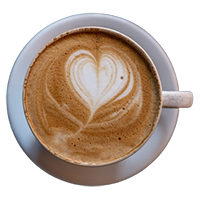
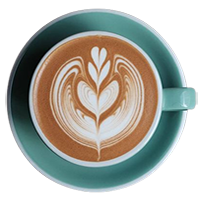
Add files via upload

diff --git a/index.html b/index.html
@@ -22,10 +22,10 @@
         </div>
       
         <ul class="nav-list">
-          <li><a href="index.html">Home</a></li>
-          <li><a href="#coffee">Café</a></li>
-          <li><a href="#acompanhamento">Acompanhamento</a></li>
-          <li><a href="#">Sobre nós</a></li>
+          <li><a href="index.html">Home <i class="fa-solid fa-house"></i></a></li>
+          <li><a href="#coffee">Café <i class="fa-solid fa-mug-hot"></i></a></li>
+          <li><a href="#acompanhamento">Acompanhamento <i class="fa-solid fa-cookie-bite"></i></a></li>
+          <li><a href="#">Sobre nós <i class="fa-solid fa-users"></i></a></li>
         </ul>
       </div>
     </nav>
@@ -60,42 +60,73 @@
     <div class="containerAll">
       <h1 class="titleCafe" id="coffee">Cafés</h1>
       <div class="containerCards">
-        <div class="card card1">
+        <div class="card">
           <picture>
-            <img src="./imagens/coffee.png" alt="Imagem de um cappuccino">
+            <img src="./imagens/coffee.png" alt="Imagem de uma xícara de café">
           </picture>
-          <h1>Cappuccino </br> <span>Com leite</span></h1>
+          <h1>Cappuccino</br><span>Com leite</span></h1>
           <div class="containerAdd">
             <p><span>$</span>5.50</p>
             <a href="#" class="btnAdd">Comprar</a>
           </div>
         </div>
 
-        <div class="card card2">
+        <div class="card">
           <picture>
-            <img src="./imagens/coffee1.png" alt="Imagem de um café expresso">
+            <img src="./imagens/coffee2.png" alt="Imagem de uma xícara de café">
           </picture>
-          <h1>Café expresso </br> <span>Com chocolate</span></h1>
+          <h1>Café expresso</br><span>Com chocolate</span></h1>
           <div class="containerAdd">
-            <p><span>$</span>6.50</p>
+            <p><span>$</span>6.00</p>
             <a href="#" class="btnAdd">Comprar</a>
           </div>
         </div>
 
-        <div class="card card3">
+        <div class="card">
           <picture>
-            <img src="./imagens/coffee2.png" alt="Imagem de um café gelado">
+            <img src="./imagens/coffee3.png" alt="Imagem de uma xícara de café">
           </picture>
-          <h1>Café gelado </br> <span>Com creme</span></h1>
+          <h1>Cappuccino</br><span>Com creme</span></h1>
           <div class="containerAdd">
-            <p><span>$</span>7.00</p>
+            <p><span>$</span>5.30</p>
+            <a href="#" class="btnAdd">Comprar</a>
+          </div>
+        </div>
+
+        <div class="card">
+          <picture>
+            <img src="./imagens/coffee4.png" alt="Imagem de um café gelado">
+          </picture>
+          <h1>Café gelado</br><span>Com leite</span></h1>
+          <div class="containerAdd">
+            <p><span>$</span>6.20</p>
+            <a href="#" class="btnAdd">Comprar</a>
+          </div>
+        </div>
+        <div class="card">
+          <picture>
+            <img src="./imagens/coffee3.png" alt="Imagem de um café gelado">
+          </picture>
+          <h1>Café</br><span>Com canela</span></h1>
+          <div class="containerAdd">
+            <p><span>$</span>6.20</p>
+            <a href="#" class="btnAdd">Comprar</a>
+          </div>
+        </div>
+        <div class="card">
+          <picture>
+            <img src="./imagens/coffee.png" alt="Imagem de um café gelado">
+          </picture>
+          <h1>Café</br><span>Com creme</span></h1>
+          <div class="containerAdd">
+            <p><span>$</span>6.20</p>
             <a href="#" class="btnAdd">Comprar</a>
           </div>
         </div>
       </div>
       <h1 class="titleAcompanha" id="acompanhamento">Acompanhamentos</h1>
       <div class="containerCards">
-        <div class="card card4">
+        <div class="card">
           <picture>
             <img src="./imagens/boloOreo.jpg" alt="Imagem de um bolo de oreo">
           </picture>
@@ -106,7 +137,29 @@
           </div>
         </div>
 
-        <div class="card card5">
+        <div class="card">
+          <picture>
+            <img src="./imagens/cupcake.jpg" alt="Imagem de alguns cupcakes">
+          </picture>
+          <h1>Cupcake</h1>
+          <div class="containerAdd">
+            <p><span>$</span>3.00</p>
+            <a href="#" class="btnAdd">Comprar</a>
+          </div>
+        </div>
+
+        <div class="card">
+          <picture>
+            <img src="./imagens/doces.jpg" alt="Imagem de doces de coco">
+          </picture>
+          <h1>Docinho de coco</h1>
+          <div class="containerAdd">
+            <p><span>$</span>1.00</p>
+            <a href="#" class="btnAdd">Comprar</a>
+          </div>
+        </div>
+
+        <div class="card">
           <picture>
             <img src="./imagens/cookies.jpg" alt="Imagem de cookies de chocolate">
           </picture>
@@ -117,13 +170,24 @@
           </div>
         </div>
 
-        <div class="card card6">
+        <div class="card">
           <picture>
             <img src="./imagens/croissant.png" alt="Imagem de um croissant">
           </picture>
           <h1>Croissant</h1>
           <div class="containerAdd">
             <p><span>$</span>4.50</p>
+            <a href="#" class="btnAdd">Comprar</a>
+          </div>
+        </div>
+
+        <div class="card">
+          <picture>
+            <img src="./imagens/brownie.jpg" alt="Imagem de brownies">
+          </picture>
+          <h1>Brownie</h1>
+          <div class="containerAdd">
+            <p><span>$</span>2.30</p>
             <a href="#" class="btnAdd">Comprar</a>
           </div>
         </div>

diff --git a/style/style.css b/style/style.css
@@ -9,6 +9,7 @@
   --cor-3: #0080ff;
   --cor-4: #ff8000;
   --cor-5: #00b909;
+  --hover: rgba(34, 34, 34, 0.85);
 }
 
 html {
@@ -81,6 +82,11 @@ header {
   color: var(--cor-3);
 }
 
+.fa-house, .fa-mug-hot, 
+.fa-cookie-bite, .fa-users {
+  display: none;
+}
+
 .mobile-menu {
   display: none;
   cursor: pointer;
@@ -129,6 +135,7 @@ main {
 }
 
 .containerCards .card {
+  margin: 10px;
   padding: 20px 40px;
   box-sizing: border-box;
   border-radius: 20px;
@@ -138,10 +145,6 @@ main {
   flex-direction: column;
   align-items: center;
   justify-content: center;
-}
-
-.card1, .card3, .card4, .card6 {
-  margin: 0 20px;
 }
 
 .card picture img {
@@ -187,7 +190,7 @@ main {
 }
 
 .containerAdd .btnAdd:hover {
-  background-color: var(--cor-3);
+  background-color: var(--hover);
 }
 
 footer {
@@ -206,6 +209,7 @@ footer p {
 
 @media screen and (max-width: 1040px) {
   .containerCards .card {
+    margin: 10px;
     padding: 20px 30px;
     box-sizing: border-box;
     border-radius: 20px;
@@ -216,15 +220,12 @@ footer p {
     align-items: center;
     justify-content: center;
   }
-  
-  .card1, .card3, .card4, .card6 {
-    margin: 0 20px;
-  }
 }
 
 
 @media screen and (max-width: 1000px) {
   .containerCards .card {
+    margin: 10px;
     padding: 20px 25px;
     box-sizing: border-box;
     border-radius: 20px;
@@ -234,10 +235,6 @@ footer p {
     flex-direction: column;
     align-items: center;
     justify-content: center;
-  }
-  
-  .card1, .card3, .card4, .card6 {
-    margin: 0 20px;
   }
 }
 
@@ -304,6 +301,7 @@ footer p {
   }
 
   .containerCards .card {
+    margin: 10px;
     padding: 20px;
     box-sizing: border-box;
     border-radius: 20px;
@@ -313,16 +311,13 @@ footer p {
     flex-direction: column;
     align-items: center;
     justify-content: center;
-  }
-  
-  .card1, .card3, .card4, .card6 {
-    margin: 0 20px;
   }
 }
 
 
 @media screen and (max-width: 895px) {
   .containerCards .card {
+    margin: 10px;
     padding: 20px;
     box-sizing: border-box;
     border-radius: 20px;
@@ -332,30 +327,6 @@ footer p {
     flex-direction: column;
     align-items: center;
     justify-content: center;
-  }
-
-  .card1 {
-    margin-bottom: 20px;
-  }
-
-  .card2 {
-    margin-bottom: 20px;
-  }
-
-  .card3 {
-    margin-top: 20px;
-  }
-
-  .card4 {
-    margin-bottom: 20px;
-  }
-
-  .card5 {
-    margin-bottom: 20px;
-  }
-
-  .card6 {
-    margin-top: 20px;
   }
 }
 
@@ -369,7 +340,7 @@ footer p {
     position: absolute;
     top: 6vh;
     right: 0;
-    width: 60vw;
+    width: 70vw;
     height: 94vh;
     background-color: var(--cor-2);
     flex-direction: column;
@@ -389,6 +360,11 @@ footer p {
   
   .nav-list li a {
     padding: 20px;
+  }
+
+  .fa-house, .fa-mug-hot, 
+  .fa-cookie-bite, .fa-users {
+    display: initial;
   }
   
   .mobile-menu {
@@ -438,7 +414,7 @@ footer p {
   }
 
   .containerCards .card {
-    margin: 20px;
+    margin: 10px;
     padding: 20px;
     box-sizing: border-box;
     border-radius: 20px;
